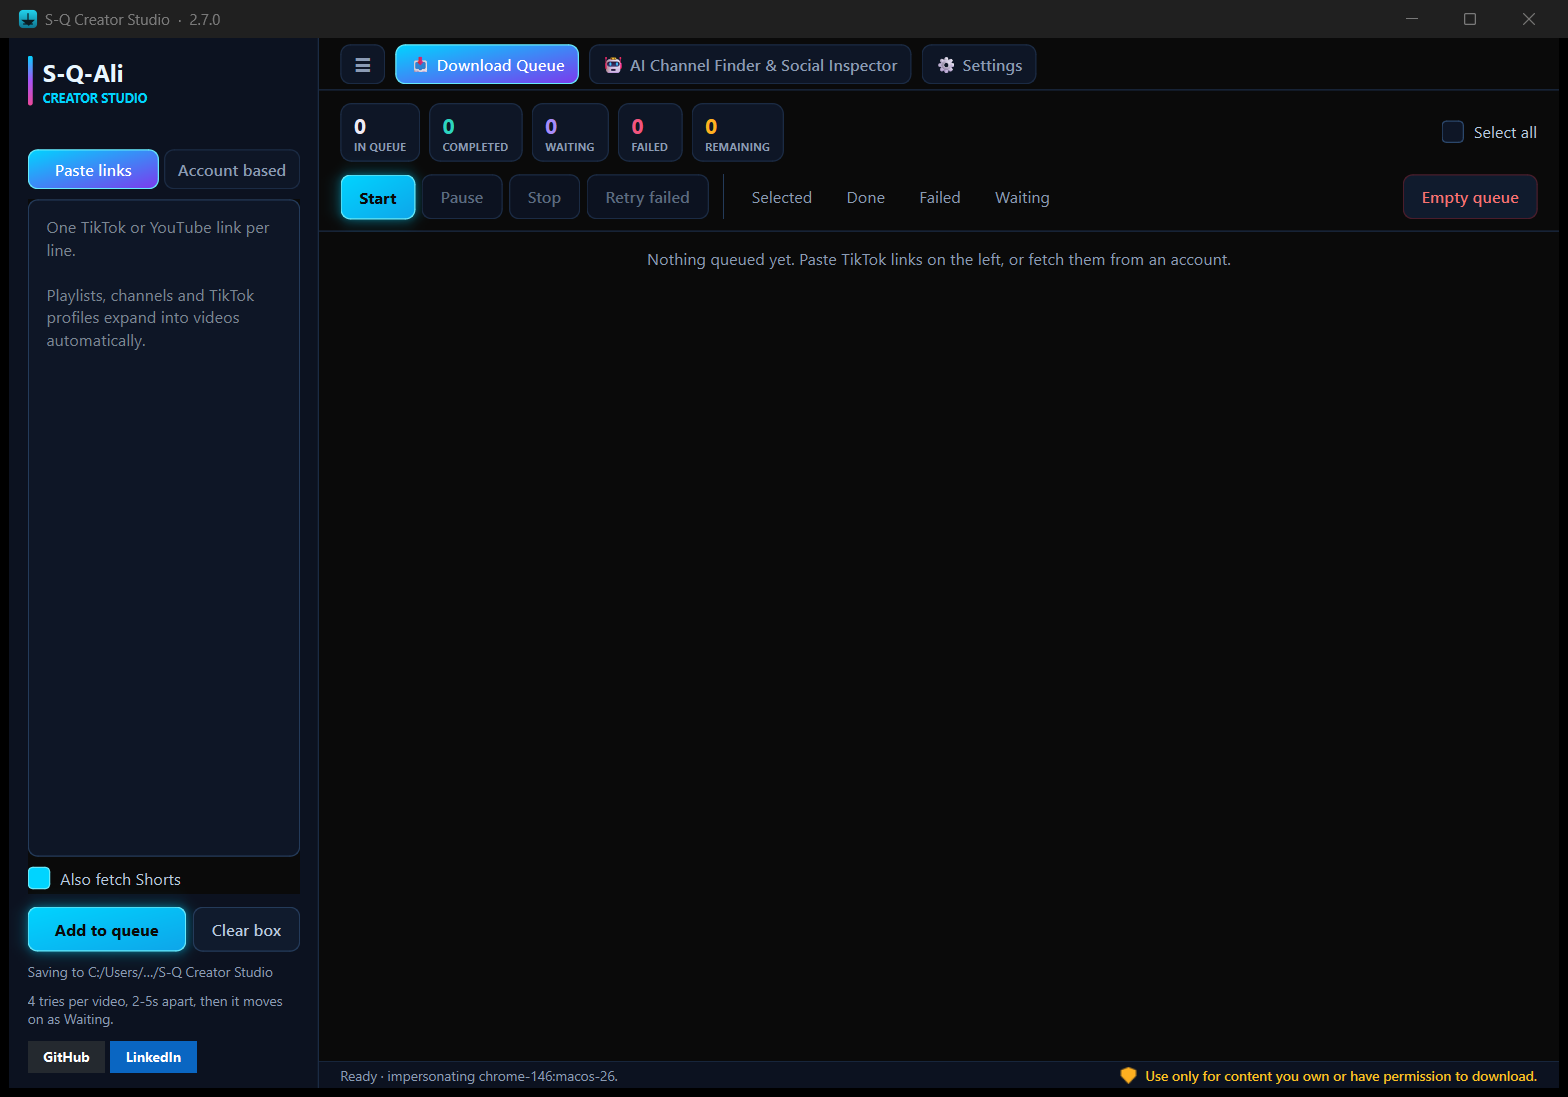
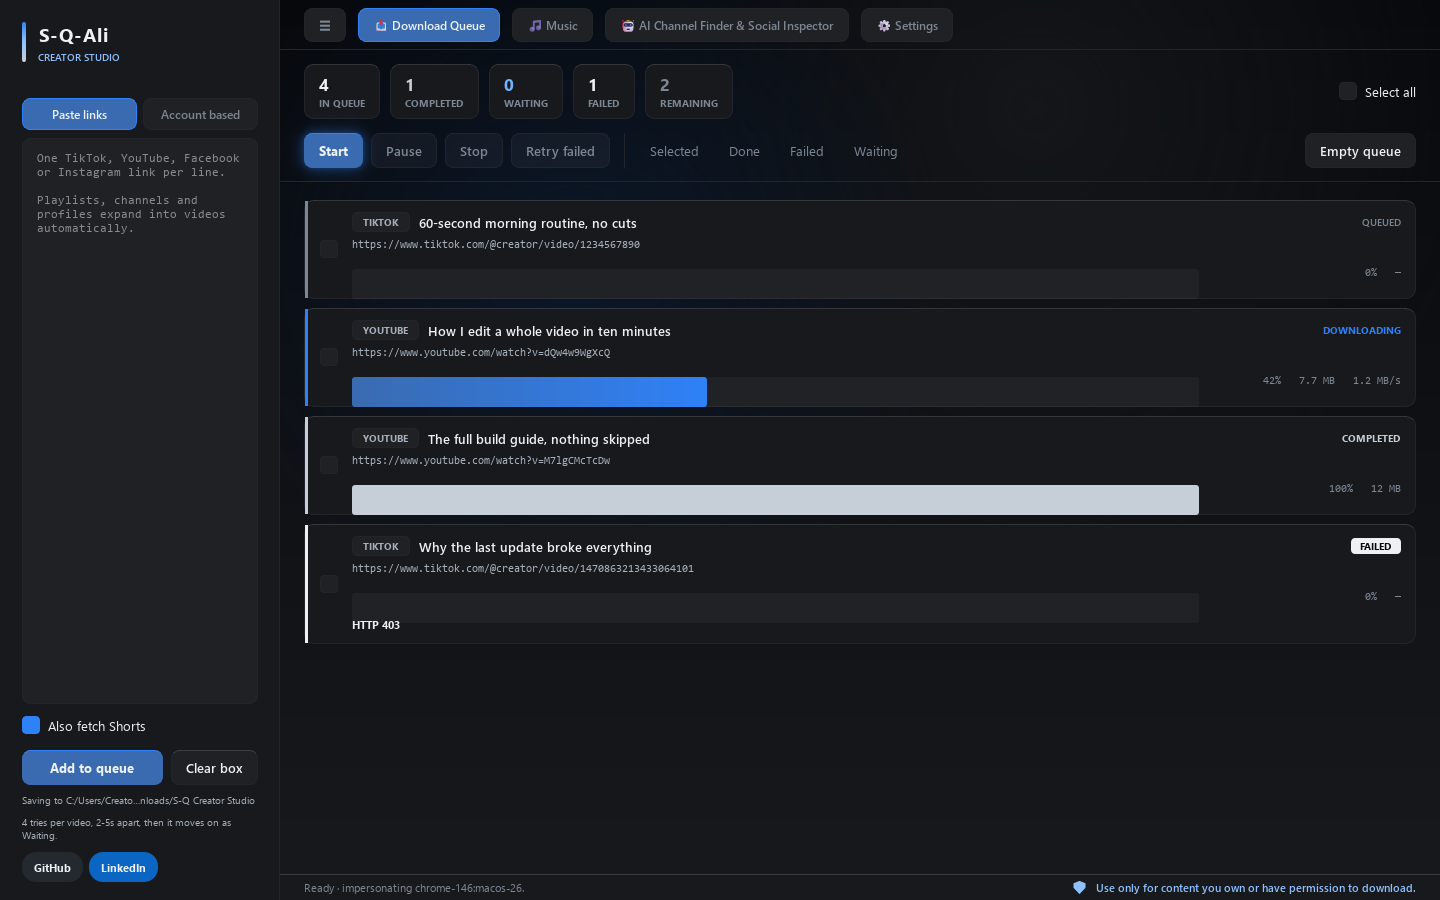
docs: show the glass build in the screenshots
All six pictures were the pre-glass UI from Oct 26, and the README
showed only two of the four it had. They are replaced with renders from
the glass sheet - Download, Music, AI Channel Finder, Social Discovery,
Settings and the compact layout - and the table now carries all six.
Task 10 and the glass-treatment checkpoint are closed with what the
renders measured and the three defects they caught.

diff --git a/tasks/todo-glass-ui.md b/tasks/todo-glass-ui.md
@@ -415,13 +415,49 @@ Suite after 9: **846 passed, 19 deselected**.
 densities; the four stale `screenshots/*.png` (all Oct 26) are replaced.
 
 **Acceptance criteria:**
-- [ ] Fresh PNGs for Download, Music, Social Discovery, Agent and Settings.
-- [ ] The report states geometry, contrast and parse-cleanliness only — never "looks right".
+- [x] Fresh PNGs for Download, Music, Social Discovery, Agent and Settings.
+- [x] The report states geometry, contrast and parse-cleanliness only — never "looks right".
 
 **Verification:**
-- [ ] `QT_QPA_PLATFORM=offscreen ./source/venv/Scripts/python.exe tests/render_glass_screenshots.py` writes the files, and the user is asked to run the app for the judgement that cannot be automated.
+- [x] `QT_QPA_PLATFORM=offscreen ./source/venv/Scripts/python.exe tests/render_glass_screenshots.py` writes the files, and the user is asked to run the app for the judgement that cannot be automated.
 
 **Dependencies:** Tasks 4-9 · **Scope:** S (2 files + 4 PNGs)
+
+**Outcome:** The script renders 2 densities × 4 sizes × 5 pages = 40 review PNGs
+into a scratch directory and writes the six the README shows — `interface`,
+`music`, `agent`, `social-discovery`, `settings`, `compact` — into
+`screenshots/`. The report prints only measurements: 193 font families loaded,
+sheet 11 820 chars in 93 rule bodies, body text on a panel 15.51:1, checked tab
+4.73:1, and per shot the window size, the share of blue pixels (0.9 %-2.9 %) and
+the four dominant colours (all greys, `#17191D` first). It never says a screen
+looks right.
+
+Three defects the review caught, all fixed here:
+
+- **The download folder was this machine's.** Redirecting `APPDATA`,
+  `LOCALAPPDATA` and `HOME` does not cover the preferences on Windows, which
+  live in the registry: the first render printed the real path, and the Music
+  page printed the storage default. The script now sets `SQ_SETTINGS_FILE` the
+  way `conftest.py` does and writes a neutral folder into both fields.
+- **The combo caret was a sliver, not an arrow.** `theme.py` drew the
+  indicator with `border-left/right: transparent` — Qt has no CSS border
+  triangle, so it painted a filled 4×5 box. Both `QComboBox::drop-down` and
+  `QComboBox::down-arrow` are gone and Qt draws its own caret again;
+  `test_the_combo_arrow_is_left_to_qt` keeps it that way.
+- **`⚙ Options` was tofu.** Loading the whole font folder instead of six files
+  is what made this visible: plain U+2699 has no face on this machine, while
+  the tab bar's `⚙` (with the emoji selector) does. The button now reads
+  `▸ Options` / `▾ Options`, and `☰` in the nav bar renders.
+
+The seeded queue rows carry titles, and the failed row is a TikTok link: the
+card badge only distinguishes YouTube from everything else, so an Instagram
+link in a shipped screenshot would have been labelled `TIKTOK`.
+
+Suite after 10: **847 passed, 19 deselected**. The six PNGs still need the
+user's own eyes — the render proves geometry and colour, not taste.
+
+### Checkpoint: glass treatment
+- [x] Every screen on the glass sheet; opaque where function demands it; contrast asserted on composites; PNGs reviewed.
 
 ### Task 11: Docs that match the build
 

diff --git a/README.md b/README.md
@@ -27,13 +27,17 @@ Download the latest release and start downloading videos in seconds:
 
 ## 📸 Screenshots
 
-| Main Interface | Settings |
-|----------------|----------|
-| ![Main Interface](https://github.com/S-Q-Ali/S-Q-Creator-Studio/raw/master/screenshots/interface.png) | ![Settings](https://github.com/S-Q-Ali/S-Q-Creator-Studio/raw/master/screenshots/settings.png) |
+| Main Interface | Music |
+|----------------|-------|
+| ![Main Interface](https://github.com/S-Q-Ali/S-Q-Creator-Studio/raw/master/screenshots/interface.png) | ![Music](https://github.com/S-Q-Ali/S-Q-Creator-Studio/raw/master/screenshots/music.png) |
 
-| Social Discovery | Compact Mode |
-|------------------|--------------|
-| ![Social Discovery](https://github.com/S-Q-Ali/S-Q-Creator-Studio/raw/master/screenshots/social-discovery.png) | ![Compact Mode](https://github.com/S-Q-Ali/S-Q-Creator-Studio/raw/master/screenshots/compact.png) |
+| AI Channel Finder | Social Discovery |
+|-------------------|------------------|
+| ![AI Channel Finder](https://github.com/S-Q-Ali/S-Q-Creator-Studio/raw/master/screenshots/agent.png) | ![Social Discovery](https://github.com/S-Q-Ali/S-Q-Creator-Studio/raw/master/screenshots/social-discovery.png) |
+
+| Settings | Compact Mode |
+|----------|--------------|
+| ![Settings](https://github.com/S-Q-Ali/S-Q-Creator-Studio/raw/master/screenshots/settings.png) | ![Compact Mode](https://github.com/S-Q-Ali/S-Q-Creator-Studio/raw/master/screenshots/compact.png) |
 
 ---
 
